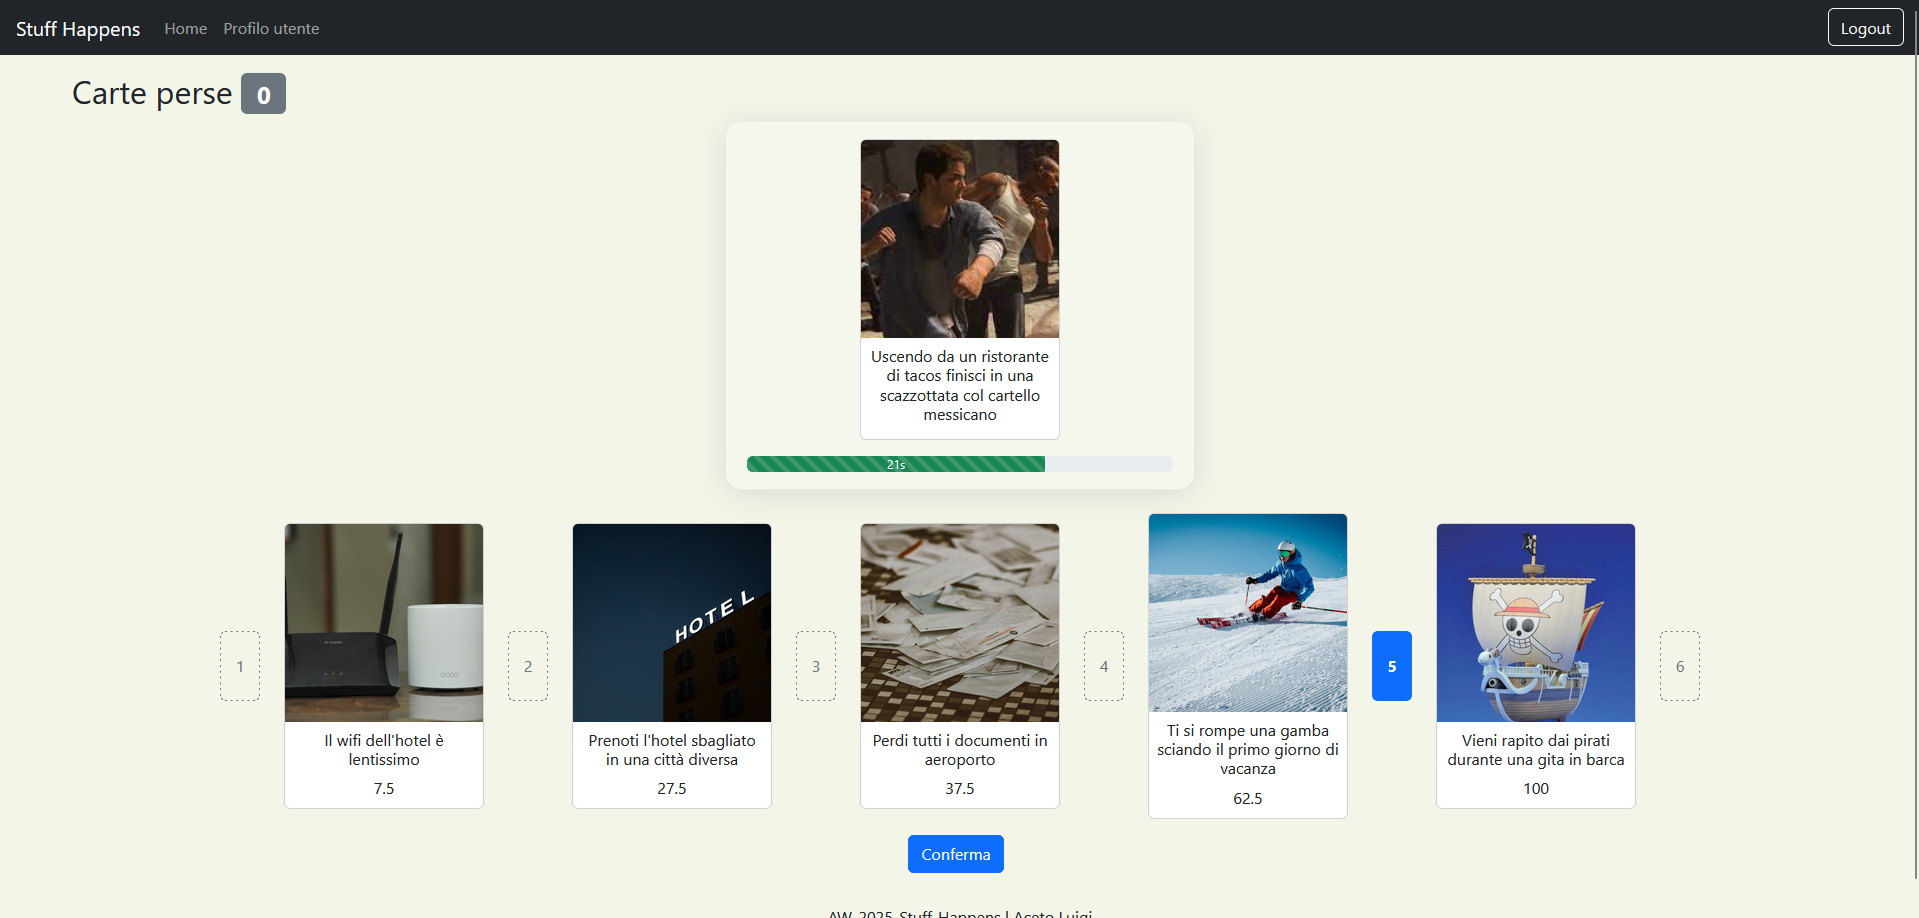
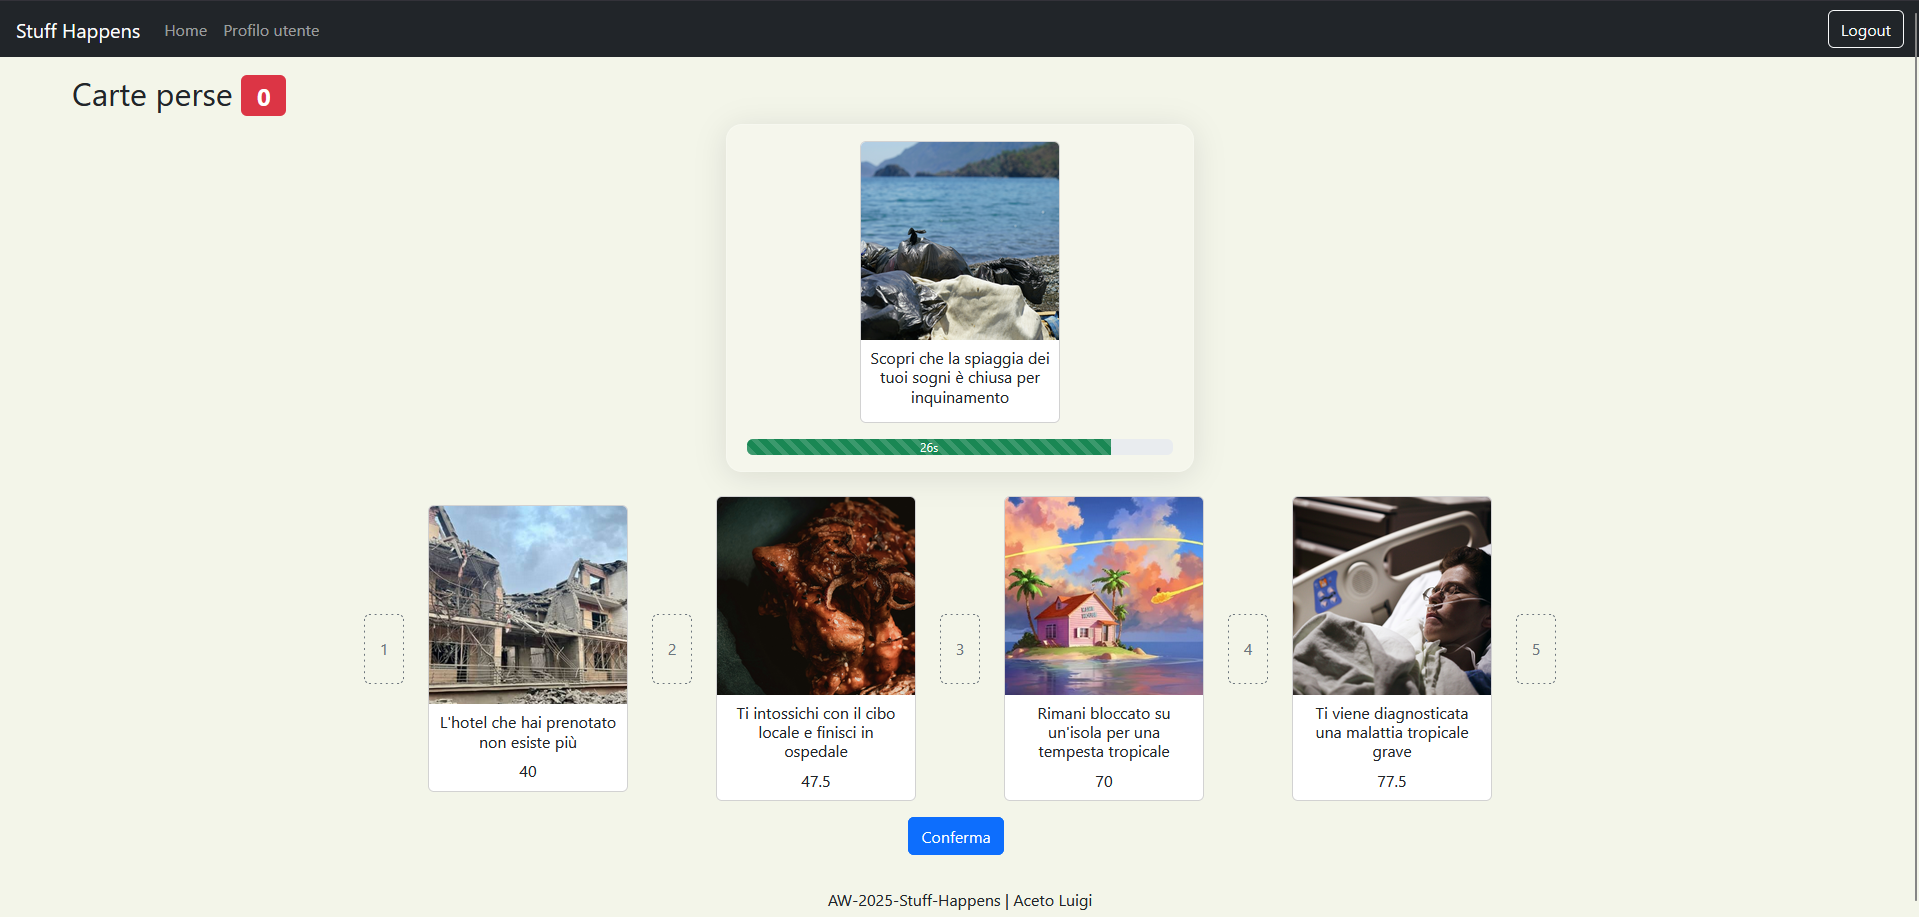
Add: not showing lost cards in demo games

diff --git a/client/src/components/MatchGameplay.jsx b/client/src/components/MatchGameplay.jsx
@@ -11,16 +11,18 @@ function MatchGameplay() {
   const [message, setMessage] = useState('');
   const [lostCards, setLostCards] = useState(0);
   const [loading, setLoading] = useState(false);
+  const [demoGame, setDemoGame] = useState();
   const navigate = useNavigate();
   const location = useLocation();
 
   // sul mount, carica i dati iniziali della partita (passati dalla
   // pagina precedente) nello stato
   useEffect(() => {
-    const { matchId, startingSituations, tableSituation } = location.state;
+    const { matchId, startingSituations, tableSituation, demo } = location.state;
     setMatchId(matchId);
     setHandCards(startingSituations);
     setTableCard(tableSituation);
+    setDemoGame(demo);
   }, []);
 
   // gestisce la richiesta di una nuova carta da guessare
@@ -110,9 +112,10 @@ function MatchGameplay() {
   //   sullo schermo la correttezza o meno della guess
   return (
     <Container fluid>
-      <h2 className='ms-5'>
-        Carte perse <Badge bg="secondary">{lostCards}</Badge>
-      </h2>
+      {demoGame === false && 
+        <h2 className='ms-5'>
+          Carte perse <Badge bg="danger">{lostCards}</Badge>
+        </h2>}
       {message && 
         <Row>
           <Alert className="w-50 text-center mx-auto" variant={message.type}>{message.msg}</Alert>

diff --git a/client/src/components/MatchEnd.jsx b/client/src/components/MatchEnd.jsx
@@ -4,7 +4,7 @@ import { Hand } from './Cards';
 import { Container, Alert, Button, Spinner } from 'react-bootstrap';
 import API from '../API.mjs';
 
-function MatchEnd() {
+function MatchEnd({ loggedIn }) {
   const location = useLocation();
   const navigate = useNavigate();
   const [matchInfo, setMatchInfo] = useState(null); 
@@ -30,11 +30,13 @@ function MatchEnd() {
       return;
     }
     const { match_id, starting_situations, table_situation } = matchInfo;
+    const demo = loggedIn === true ? false : true;
     navigate(`/match/${match_id}/play`, {
       state: {
         matchId: match_id,
         startingSituations: starting_situations.sort((a, b) => a.misfortune_index - b.misfortune_index),
-        tableSituation: table_situation
+        tableSituation: table_situation,
+        demo: demo
       }
     });
   }

diff --git a/client/src/App.jsx b/client/src/App.jsx
@@ -55,7 +55,7 @@ function App() {
         <Route path='/user/:userId/profile' element={<UserProfile user={user}/>}/>
         <Route path='/match/new' element={<MatchRulings loggedIn={loggedIn}/>}/>
         <Route path='/match/:matchId/play' element={<MatchGameplay/>}/>
-        <Route path='/match/:matchId/end' element={<MatchEnd/>}/>
+        <Route path='/match/:matchId/end' element={<MatchEnd loggedIn={loggedIn}/>}/>
         <Route path='/login' element={loggedIn ? <Navigate replace to='/'/> : <LoginForm login={handleLogin}/>}/>
         <Route path='*' element={<NotFound/>}/>
       </Route>

diff --git a/client/src/components/MatchRulings.jsx b/client/src/components/MatchRulings.jsx
@@ -30,11 +30,13 @@ function MatchStart({loggedIn}) {
       return;
     }
     const { match_id, starting_situations, table_situation } = matchInfo;
+    const demo = loggedIn === true ? false : true;
     navigate(`/match/${match_id}/play`, {
       state: {
         matchId: match_id,
         startingSituations: starting_situations.sort((a, b) => a.misfortune_index - b.misfortune_index),
-        tableSituation: table_situation
+        tableSituation: table_situation,
+        demo: demo
       }
     });
   }
